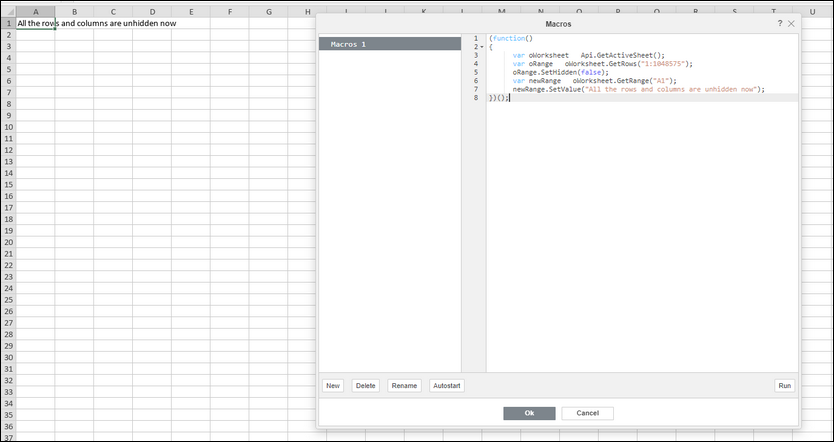
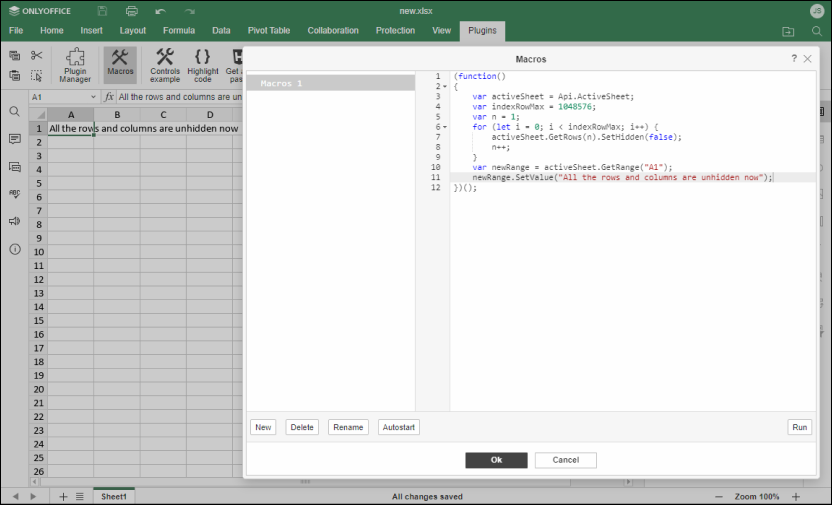
small fixes

diff --git a/CHANGELOG.md b/CHANGELOG.md
@@ -1,7 +1,8 @@
 # Change Log
 
+- macros: added the Unhide all rows and columns macro
+
 ## 2.9.0
-- macros: added unhide all rows and columns macro
 - editors: added the Version and LastModifiedTime properties to the CheckFileInfo WOPI operation
 - editors: added the Connector class to interact with text documents, spreadsheets, presentations, and fillable forms from the outside
 - editors: added the theme-contrast-dark theme id to the editorConfig.customization.uiTheme parameter
